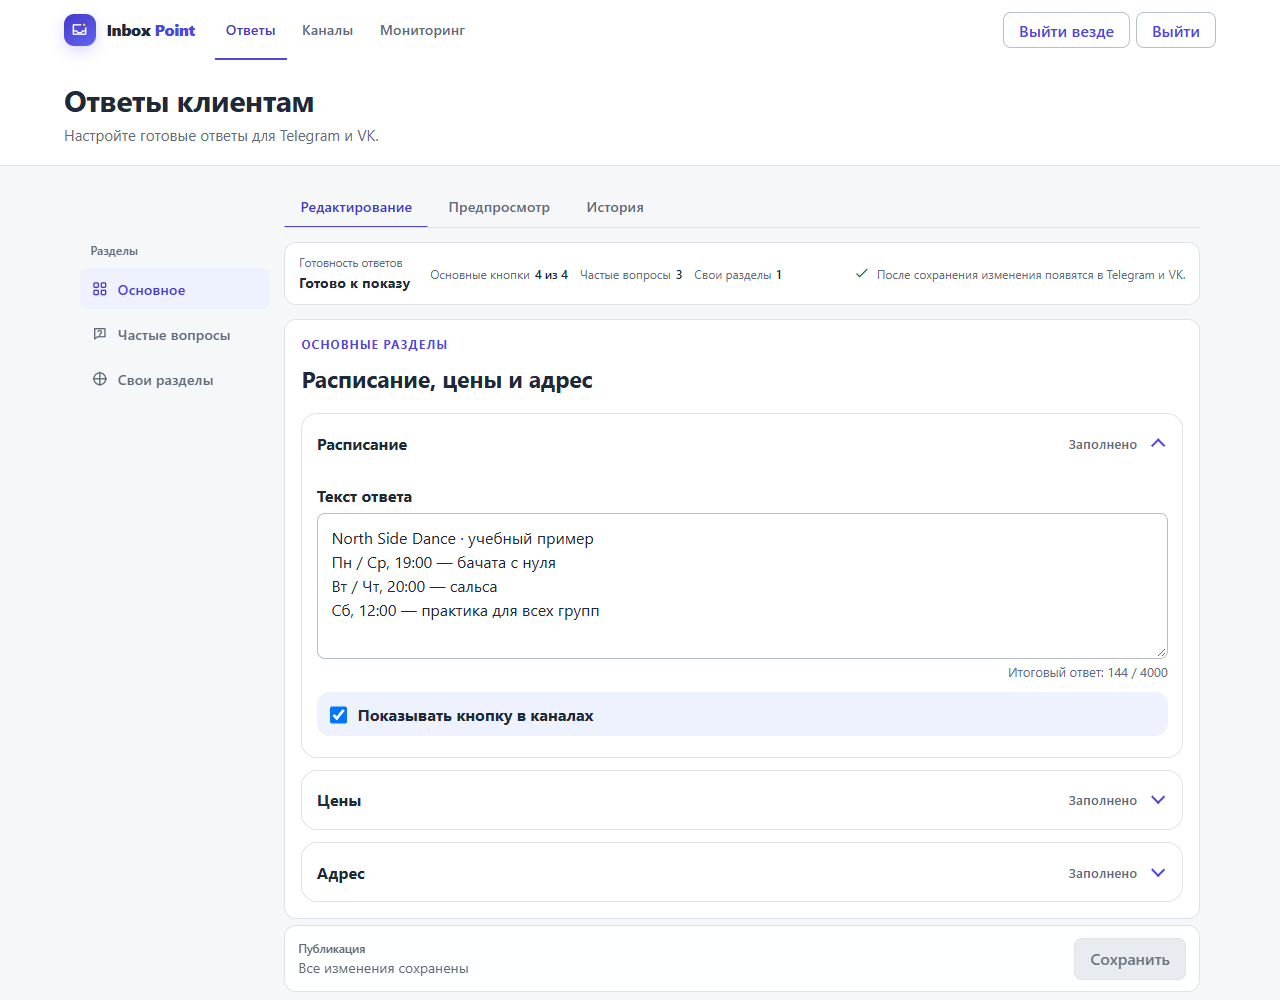
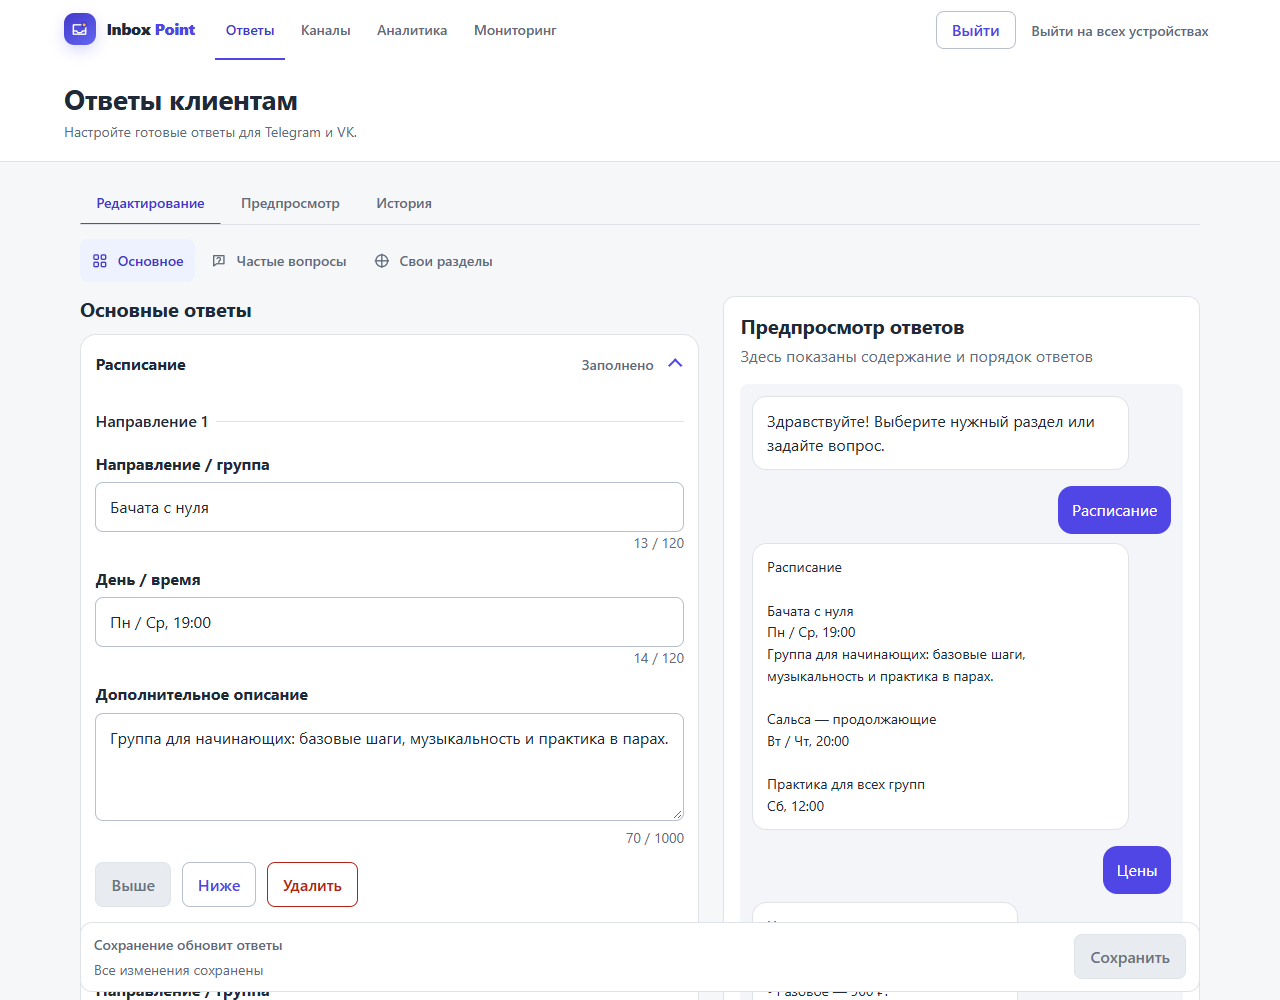
docs(readme): refresh interface screenshots

diff --git a/tests/e2e/docs-screenshots.spec.ts b/tests/e2e/docs-screenshots.spec.ts
@@ -3,7 +3,10 @@ import { resolve } from 'node:path';
 
 import { expect, test, type Page } from '@playwright/test';
 
-import type { OperationsStatus } from '@frontend/entities/operations/model/types.js';
+import {
+  attentionOperations as operations,
+  designContent as content,
+} from './support/design-fixtures.js';
 
 // Uses the existing local E2E server; no channel credentials or real accounts.
 // Export: UPDATE_DOCS_SCREENSHOTS=1 npm run check:e2e -- docs-screenshots.spec.ts
@@ -20,96 +23,8 @@ test.use({
   viewport: { width: 1280, height: 1000 },
 });
 
-const content = {
-  address: 'Учебный адрес: ул. Примерная, 10, зал 2.',
-  customSections: [
-    {
-      label: 'Первое занятие',
-      text: 'Возьмите удобную одежду, сменную обувь и воду. Приходите за 10 минут.',
-    },
-  ],
-  faq: [
-    {
-      question: 'Можно без опыта?',
-      answer: 'Да, начните с группы для новичков.',
-    },
-    {
-      question: 'Как записаться?',
-      answer: 'Напишите нам удобный день и направление.',
-    },
-    {
-      question: 'Можно прийти без пары?',
-      answer: 'Да, пару подберём на занятии.',
-    },
-  ],
-  prices:
-    'Пробное занятие — 500 ₽.\nРазовое — 900 ₽.\nАбонемент на 8 занятий — 5 600 ₽.',
-  schedule: '',
-  scheduleItems: [
-    {
-      dayTime: 'Пн / Ср, 19:00',
-      description: 'Учебный пример для начинающих.',
-      title: 'Бачата с нуля',
-    },
-    { dayTime: 'Вт / Чт, 20:00', title: 'Сальса' },
-    { dayTime: 'Сб, 12:00', title: 'Практика для всех групп' },
-  ],
-  visibleSections: ['schedule', 'prices', 'address', 'faq'],
-};
-
-const runningChannel = {
-  configured: true,
-  lastSuccessfulPollAt: '2026-09-14T12:00:59.000Z',
-  running: true,
-  source: 'local',
-  state: 'running',
-} as const;
-
-const operations: OperationsStatus = {
-  channels: { telegram: runningChannel, vk: runningChannel },
-  deliveries: {
-    failed: 1,
-    incidents: [
-      {
-        attempts: 5,
-        channel: 'VK',
-        createdAt: '2026-09-14T11:58:00.000Z',
-        id: 'synthetic-delivery',
-        operatorTopicId: 'synthetic-topic',
-        outcomeUnknown: false,
-        reason: 'Учебный пример: ответ не доставлен.',
-        requestId: 'synthetic-request',
-        retryAllowed: true,
-      },
-    ],
-    oldestPendingAgeSeconds: 30,
-    oldestPendingAt: '2026-09-14T12:00:30.000Z',
-    pending: 3,
-    state: 'failed',
-    uncertain: 0,
-    worker: {
-      lastCycleAt: '2026-09-14T12:00:59.000Z',
-      running: true,
-      state: 'running',
-    },
-  },
-  inboundEvents: { incidents: [], quarantined: 0, state: 'healthy' },
-  intake: { telegram: { mode: 'active' }, vk: { mode: 'active' } },
-  observedAt: '2026-09-14T12:01:00.000Z',
-  operatorInbox: {
-    recoverableWebRequests: 0,
-    state: 'healthy',
-    webOwnedRequests: 0,
-  },
-  operatorRelays: { incidents: [], state: 'healthy', uncertain: 0 },
-  outbound: { mode: 'active' },
-  startedAt: '2026-09-14T08:01:00.000Z',
-  state: 'attention',
-  uptimeSeconds: 14_400,
-};
-
 test.beforeEach(async ({ page }) => {
-  await page.clock.setFixedTime(new Date('2026-09-14T12:01:00.000Z'));
+  await page.clock.setFixedTime(new Date('2026-10-04T12:01:00.000Z'));
   await page.route('**/api/manage/content', (route) =>
     route.fulfill({ json: { content, version: 'a'.repeat(64) } }),
   );
@@ -126,9 +41,14 @@ test('documentation: populated content management', async ({ page }) => {
   await expect(page.locator('#schedule-day-time-0')).toHaveValue(
     content.scheduleItems[0]!.dayTime,
   );
-  await expect(page.locator('.content-summary')).toContainText('4 из 4');
-  await expect(page.locator('.content-summary')).toContainText(
+  await expect(page.locator('.workspace-live-preview')).toContainText(
+    'Бачата с нуля',
+  );
+  await expect(page.locator('.workspace-live-preview')).toContainText(
     'Частые вопросы',
+  );
+  await expect(page.locator('.content-summary')).toContainText(
+    'Ответов в меню: 5',
   );
   await capture(page, 'inbox-point-content.png');
 });
@@ -148,6 +68,12 @@ test('documentation: delivery incident and service overview', async ({
   await expect(page.locator('.service-summary')).toContainText(
     'Нужно проверить',
   );
+  await expect(page.locator('.delivery-incidents')).toContainText(
+    'Учебный клиент',
+  );
+  await expect(page.locator('.delivery-incidents')).toContainText(
+    'Приходите в понедельник',
+  );
   await capture(page, 'inbox-point-operations.png');
 });
 
@@ -166,6 +92,7 @@ async function capture(page: Page, filename: string): Promise<void> {
   await mkdir(directory, { recursive: true });
   await page.screenshot({
     animations: 'disabled',
+    fullPage: filename === 'inbox-point-operations.png',
     path: resolve(directory, filename),
   });
 }

diff --git a/README.md b/README.md
@@ -4,7 +4,7 @@ Inbox Point is a self-hosted service that brings customer conversations from
 Telegram and VK into a private Telegram workspace for operators. Customers stay
 in their messenger; your team answers in Telegram.
 
-![Content management with synthetic schedule, FAQ and custom sections](docs/screenshots/inbox-point-content.png)
+![Content editor with synthetic schedule and live answer preview](docs/screenshots/inbox-point-content.png)
 
 ## How it works
 
@@ -50,10 +50,11 @@ Unsupported attachments prompt the customer to resend their question as text.
 
 ## Screenshots
 
-Actual Russian-language UI with synthetic data: fictional **North Side Dance**
-content above; a failed VK reply, retry action, and service state below.
+Actual Russian-language UI with synthetic data: a fictional dance school's
+content editor and live preview above; a failed VK reply, retry action, and
+service state below.
 
-![Operations dashboard showing a failed VK reply and service monitoring](docs/screenshots/inbox-point-operations.png)
+![Service monitoring showing a failed VK reply and retry action](docs/screenshots/inbox-point-operations.png)
 
 [Reproduce the screenshots](tests/e2e/docs-screenshots.spec.ts) without real accounts.
 
